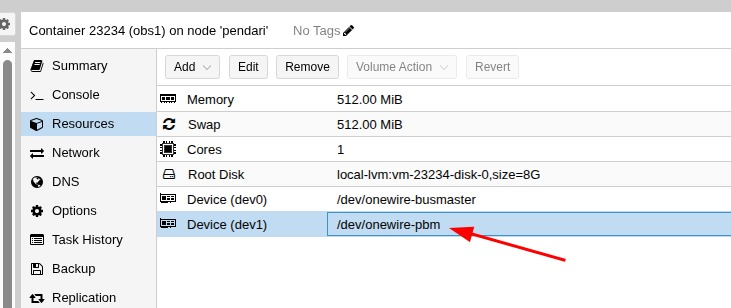
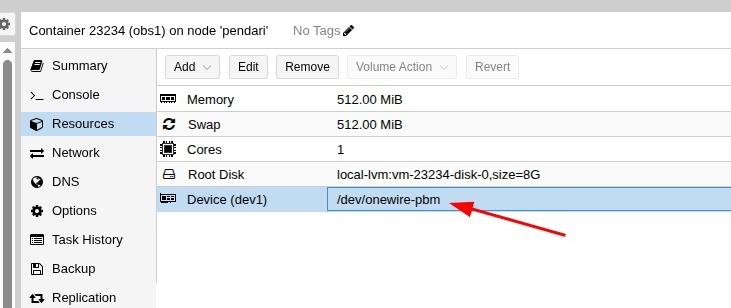
docs(onewire): show only the PBM in the passthrough screenshots
Review feedback on #1289: both screenshots still showed the busmaster
symlink (dev0) that the new instructions advise against. The dev0 row is
cut out of both images (no PBM available to retake them); everything
else is unchanged. Also note that the bind mount plus cgroup rule
exposes all host USB devices to the container.

Written with AI assistance (Claude).

Changed region(s): [[0.2107, 0.5844, 1.0, 0.8474]]

diff --git a/README.de.md b/README.de.md
@@ -1420,10 +1420,12 @@ Falls nur eine der beiden Regeln zur eigenen Hardware passt, meldet `ls` für de
 
   Den Busmaster nicht als Symlink per *Device Passthrough* durchreichen: Der Knoten existiert dann im Container nur unter dem Symlink-Namen, libusb sucht Busmaster aber ausschließlich unter `/dev/bus/usb/<bus>/<device>` — `owserver` bricht mit `LIBUSB_ERROR_NO_DEVICE` / `No valid 1-wire buses found` ab (https://github.com/abeggled/openbridgeserver/issues/1287). Der Bind-Mount deckt außerdem mehrere Busmaster und Umstecken ohne Container-Neustart ab (ein durchgereichter Pfad wird nur einmal beim Containerstart aufgelöst). Nach dem Eintragen den Container einmal neu starten (`pct reboot <CTID>`); beide Zeilen sind nötig — der Mount allein reicht nicht.
 
+  Hinweis: Mit der cgroup-Regel und dem Bind-Mount sieht der Container **alle** USB-Geräte des Hosts, nicht nur den Busmaster. Bei den üblichen Rechten unter `/dev/bus/usb` (`0664 root:root`) kann root im unprivilegierten Container sie nur lesen; vergeben andere udev-Regeln am Host lockerere Rechte (z. B. `MODE="0666"`), kann der Container auch diese Geräte benutzen.
+
 - **Proxmox-LXC, ElabNET PBM**: Container öffnen → **Resources** → **Add** → **Device Passthrough**, bei **Device Path** den stabilen Pfad aus Schritt 2 eintragen (z. B. `/dev/onewire-pbm` oder den `/dev/serial/by-id/...`-Pfad), bestätigen:
 
-  ![Proxmox-Container-Resources-Tab mit zwei durchgereichten 1-Wire-Geräten](docs/device-passthrough1.jpeg)
-  ![Proxmox-Device-Passthrough-Bearbeitungsdialog](docs/device-passthrough2.jpeg)
+  ![Proxmox-Container-Resources-Tab mit durchgereichtem PBM](docs/device-passthrough1.jpeg)
+  ![Proxmox-Device-Passthrough-Bearbeitungsdialog für das PBM](docs/device-passthrough2.jpeg)
 
   Proxmox schreibt den passenden Mount-Eintrag und die cgroup-Geräteberechtigung selbst — kein manuelles Editieren von `lxc.mount.entry`/`lxc.cgroup2.devices.allow`. Anschließend den Container neu starten (`pct reboot <CTID>`), damit der Passthrough greift.
 

diff --git a/README.md b/README.md
@@ -1421,10 +1421,12 @@ If only one of the two rules applies to your hardware, `ls` reports `No such fil
 
   Don't pass the busmaster through as a symlink via *Device Passthrough*: the node then only exists inside the container under the symlink name, while libusb looks for busmasters exclusively under `/dev/bus/usb/<bus>/<device>` — `owserver` fails with `LIBUSB_ERROR_NO_DEVICE` / `No valid 1-wire buses found` (https://github.com/abeggled/openbridgeserver/issues/1287). The bind mount also covers several busmasters and re-plugging without a container restart (a passed-through path is resolved only once, at container start). Restart the container (`pct reboot <CTID>`) once after adding the lines; both lines are required — the mount alone is not enough.
 
+  Note that with the cgroup rule and the bind mount the container sees **all** USB devices of the host, not just the busmaster. With the usual permissions under `/dev/bus/usb` (`0664 root:root`), root inside the unprivileged container can only read them; but if other host udev rules grant looser modes (e.g. `MODE="0666"`), the container can use those devices as well.
+
 - **Proxmox LXC, ElabNET PBM**: open the container → **Resources** → **Add** → **Device Passthrough**, set **Device Path** to the stable path from step 2 (e.g. `/dev/onewire-pbm` or the `/dev/serial/by-id/...` path), and confirm:
 
-  ![Proxmox container Resources tab with two passed-through 1-Wire devices](docs/device-passthrough1.jpeg)
-  ![Proxmox Device Passthrough edit dialog](docs/device-passthrough2.jpeg)
+  ![Proxmox container Resources tab with the PBM passed through](docs/device-passthrough1.jpeg)
+  ![Proxmox Device Passthrough edit dialog for the PBM](docs/device-passthrough2.jpeg)
 
   Proxmox writes the matching mount entry and cgroup device permission for you — no manual `lxc.mount.entry`/`lxc.cgroup2.devices.allow` editing. Restart the container (`pct reboot <CTID>`) for the passthrough to take effect.
 
